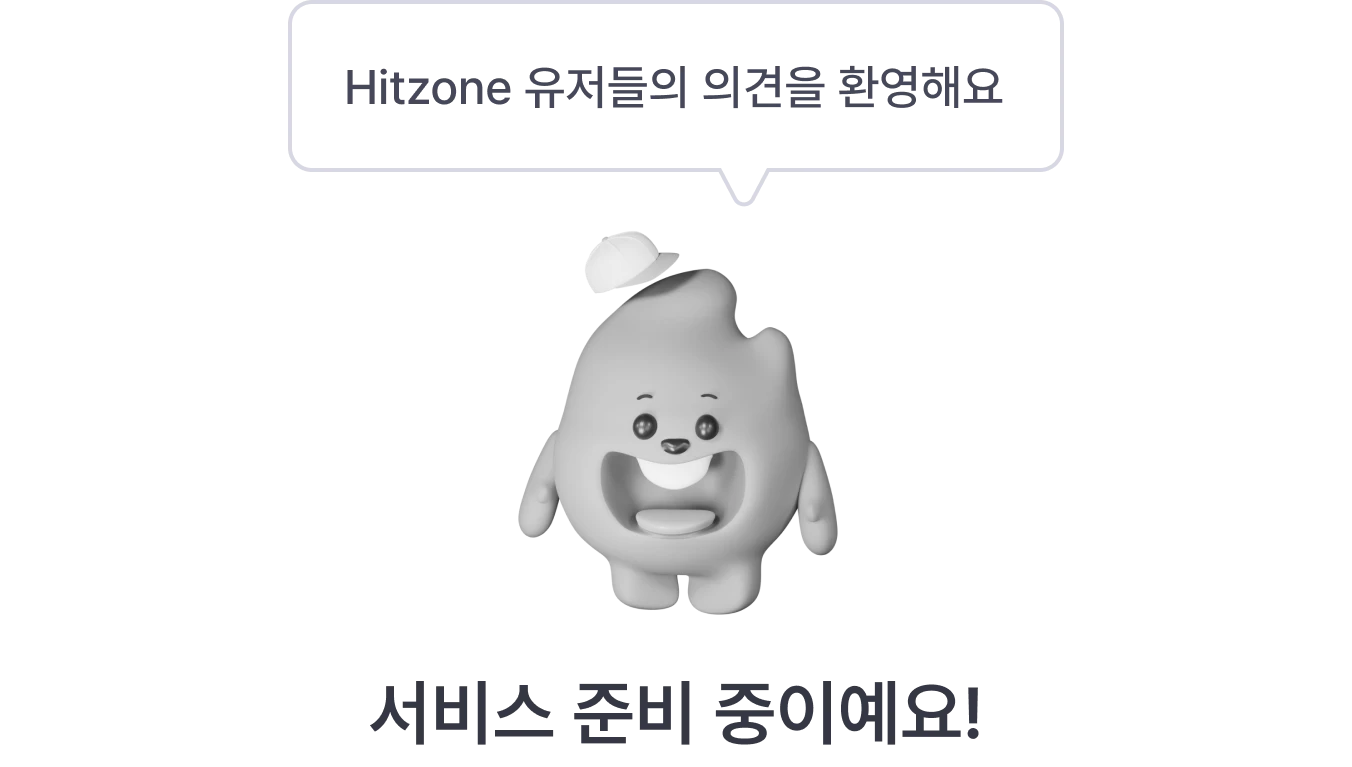
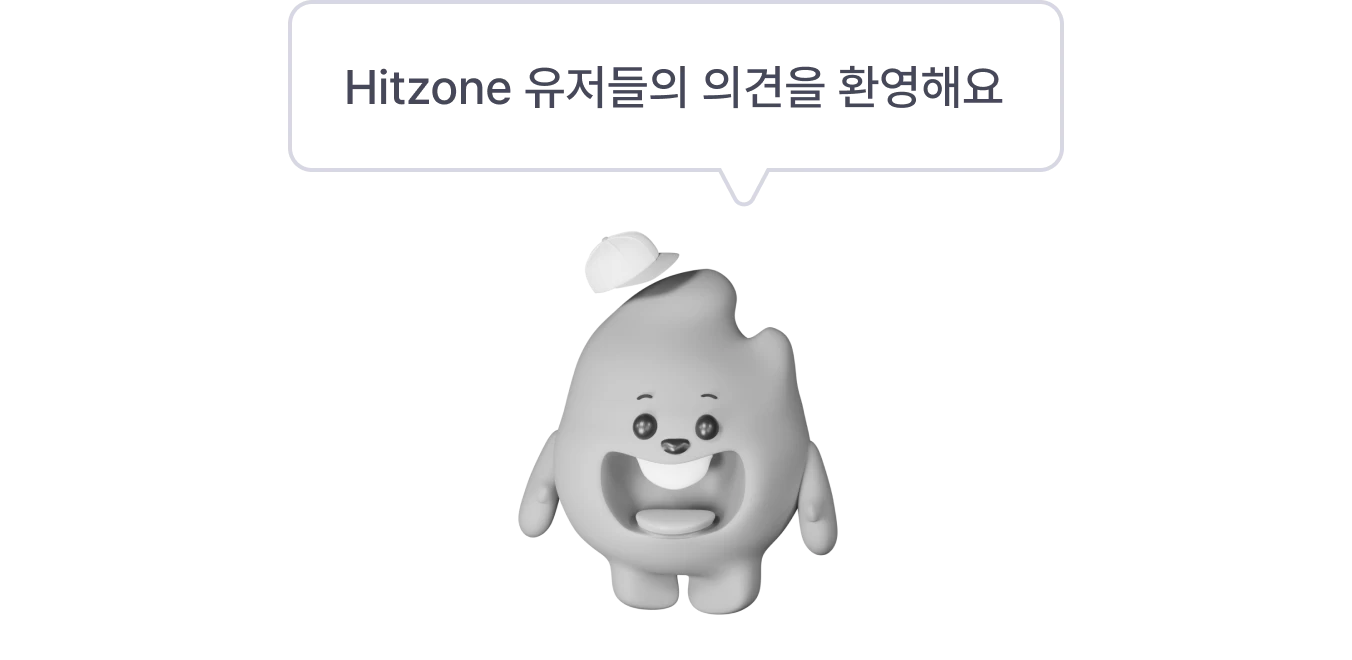
(#76) 🎨 design: 준비중인 서비스 페이지 이미지 및 워딩 수정

Changed region(s): [[0.2796, 0.303, 0.7456, 0.9697], [0.2485, 0.0909, 0.7456, 0.1818], [0.2175, 0.2121, 0.8077, 0.303]]

diff --git a/src/components/page/ServiceReady.tsx b/src/components/page/ServiceReady.tsx
@@ -13,7 +13,6 @@ const ServiceReady = () => {
 
   return (
     <div className="flex flex-col items-center justify-center text-center">
-      <div className="mb-4">
         <Image
           src={serviceReadyImage}
           alt="서비스 준비 이미지"
@@ -21,7 +20,8 @@ const ServiceReady = () => {
           height={192}
           objectFit="contain"
         />
-      </div>
+      <p className="text-lg font-semibold mb-3 text-grayscale-90">서비스 준비 중이에요!
+      </p>
       <button
         onClick={handleButtonClick}
         className="px-2 py-[6px] bg-grayscale-5 text-xs font-medium rounded-lg focus:outline-none"
